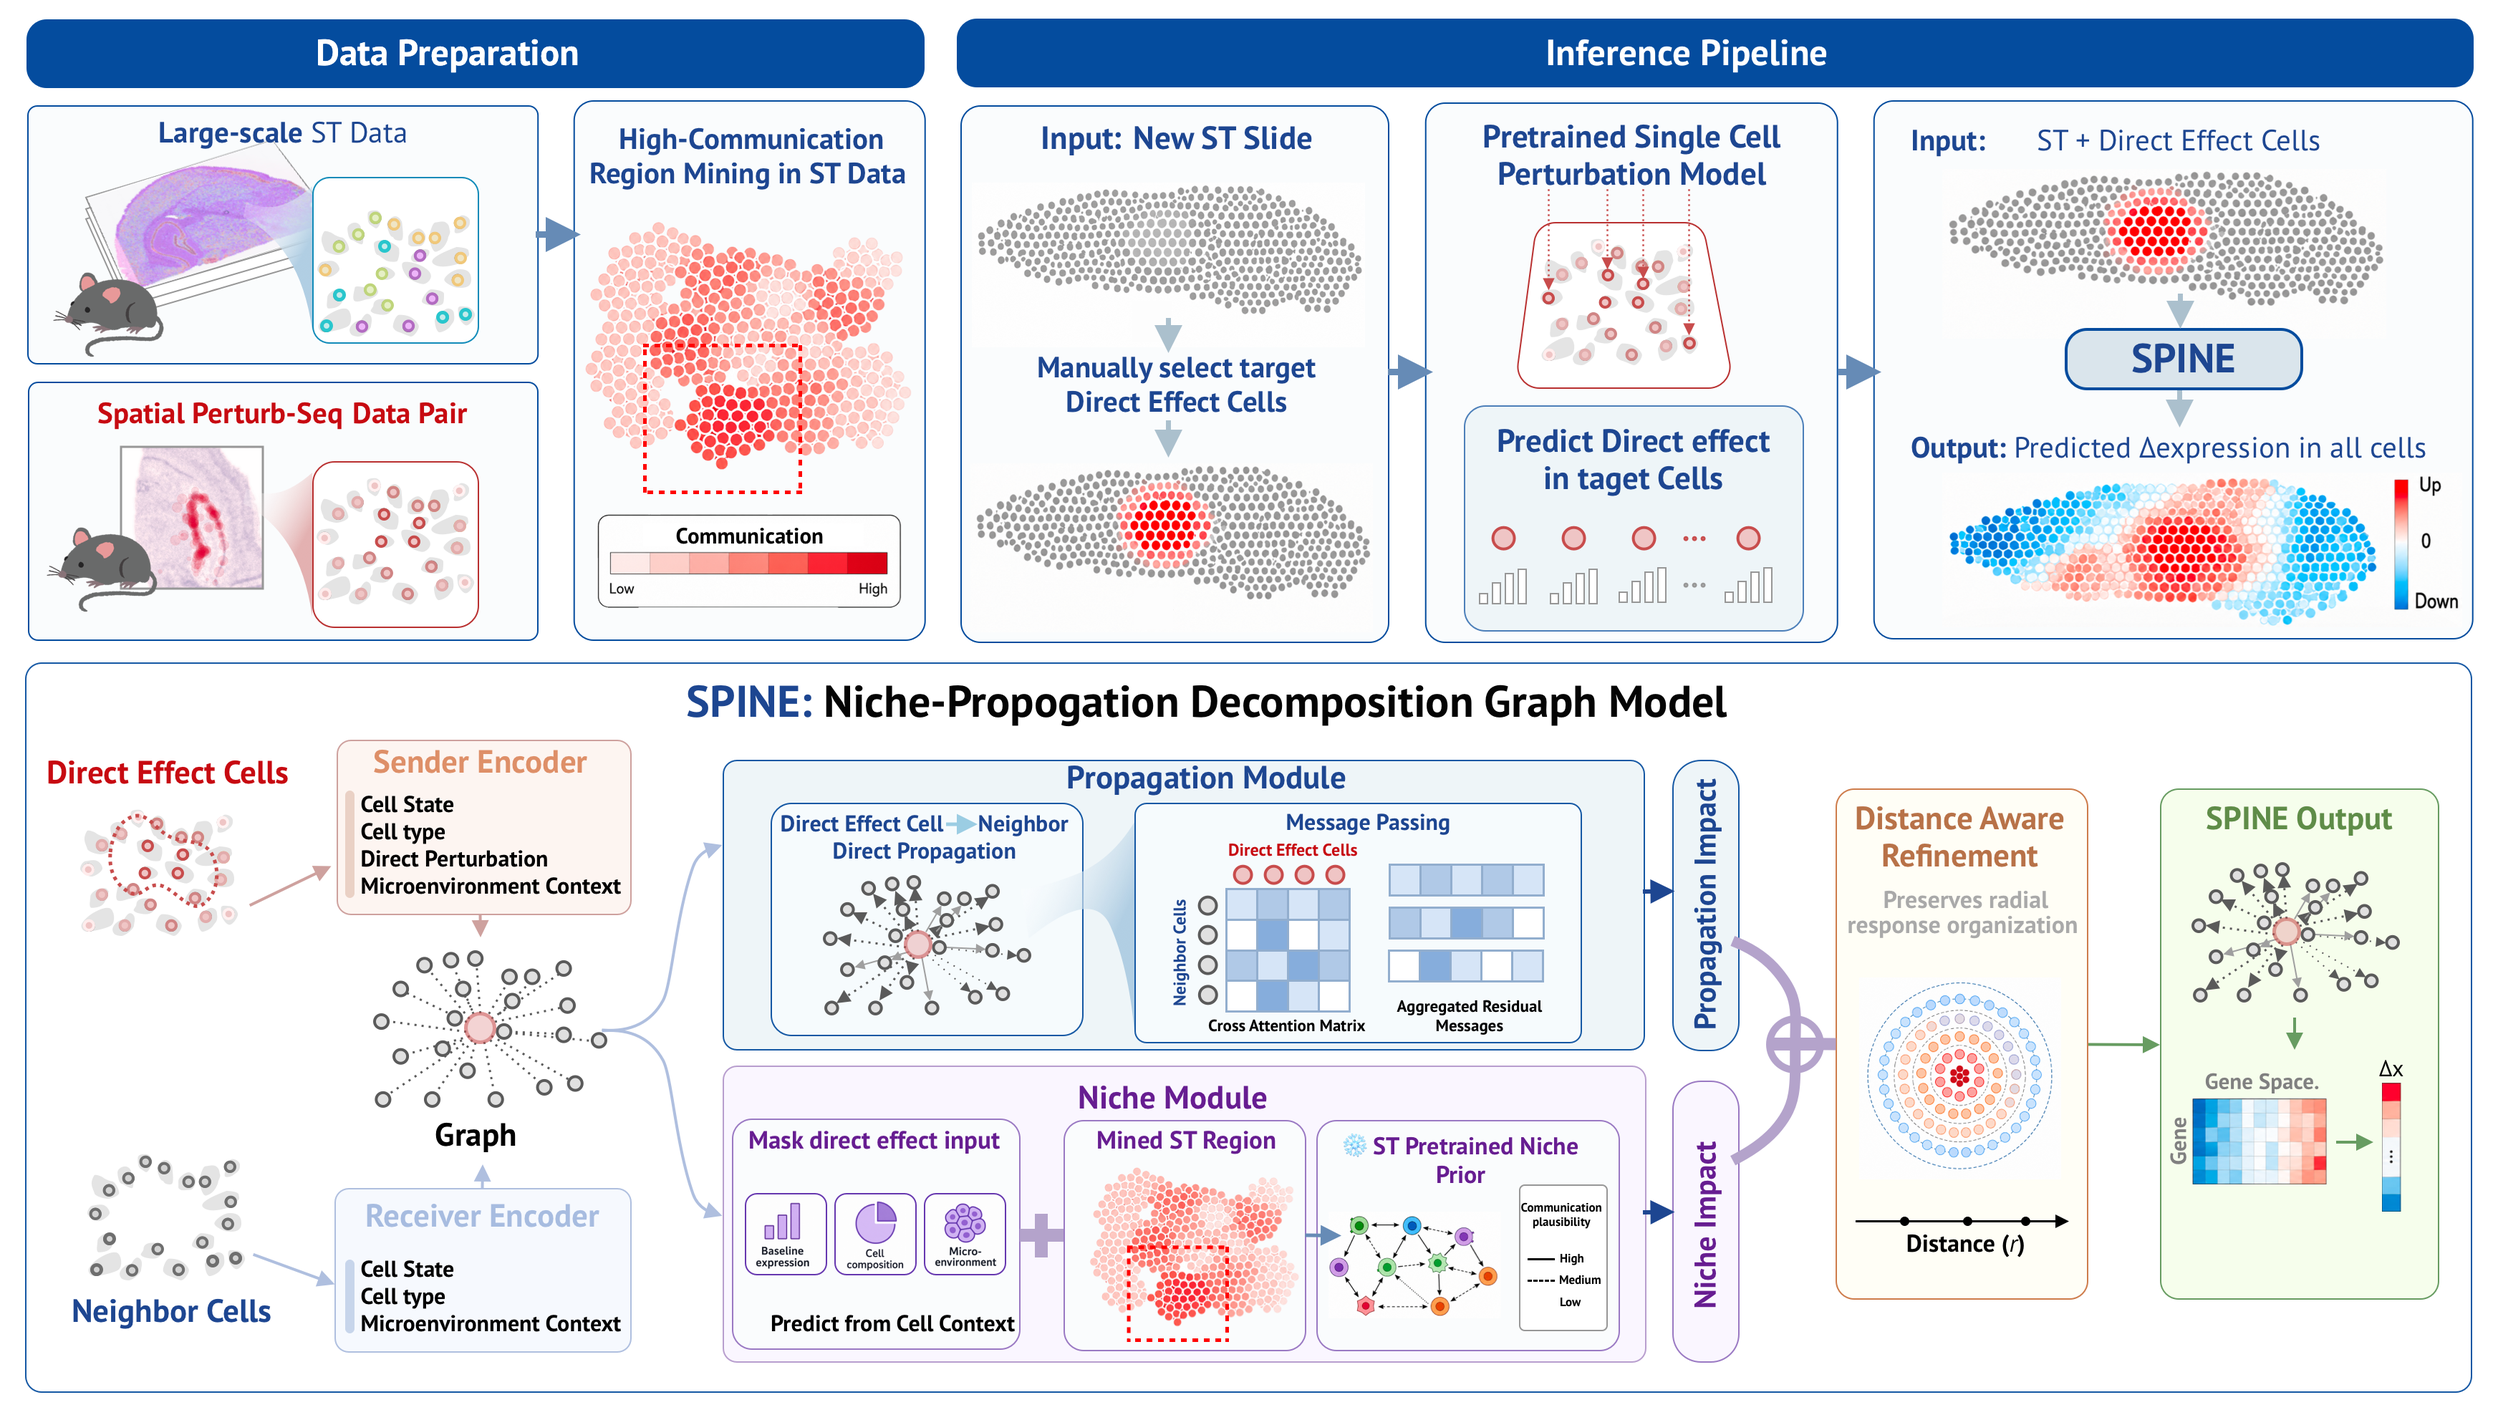
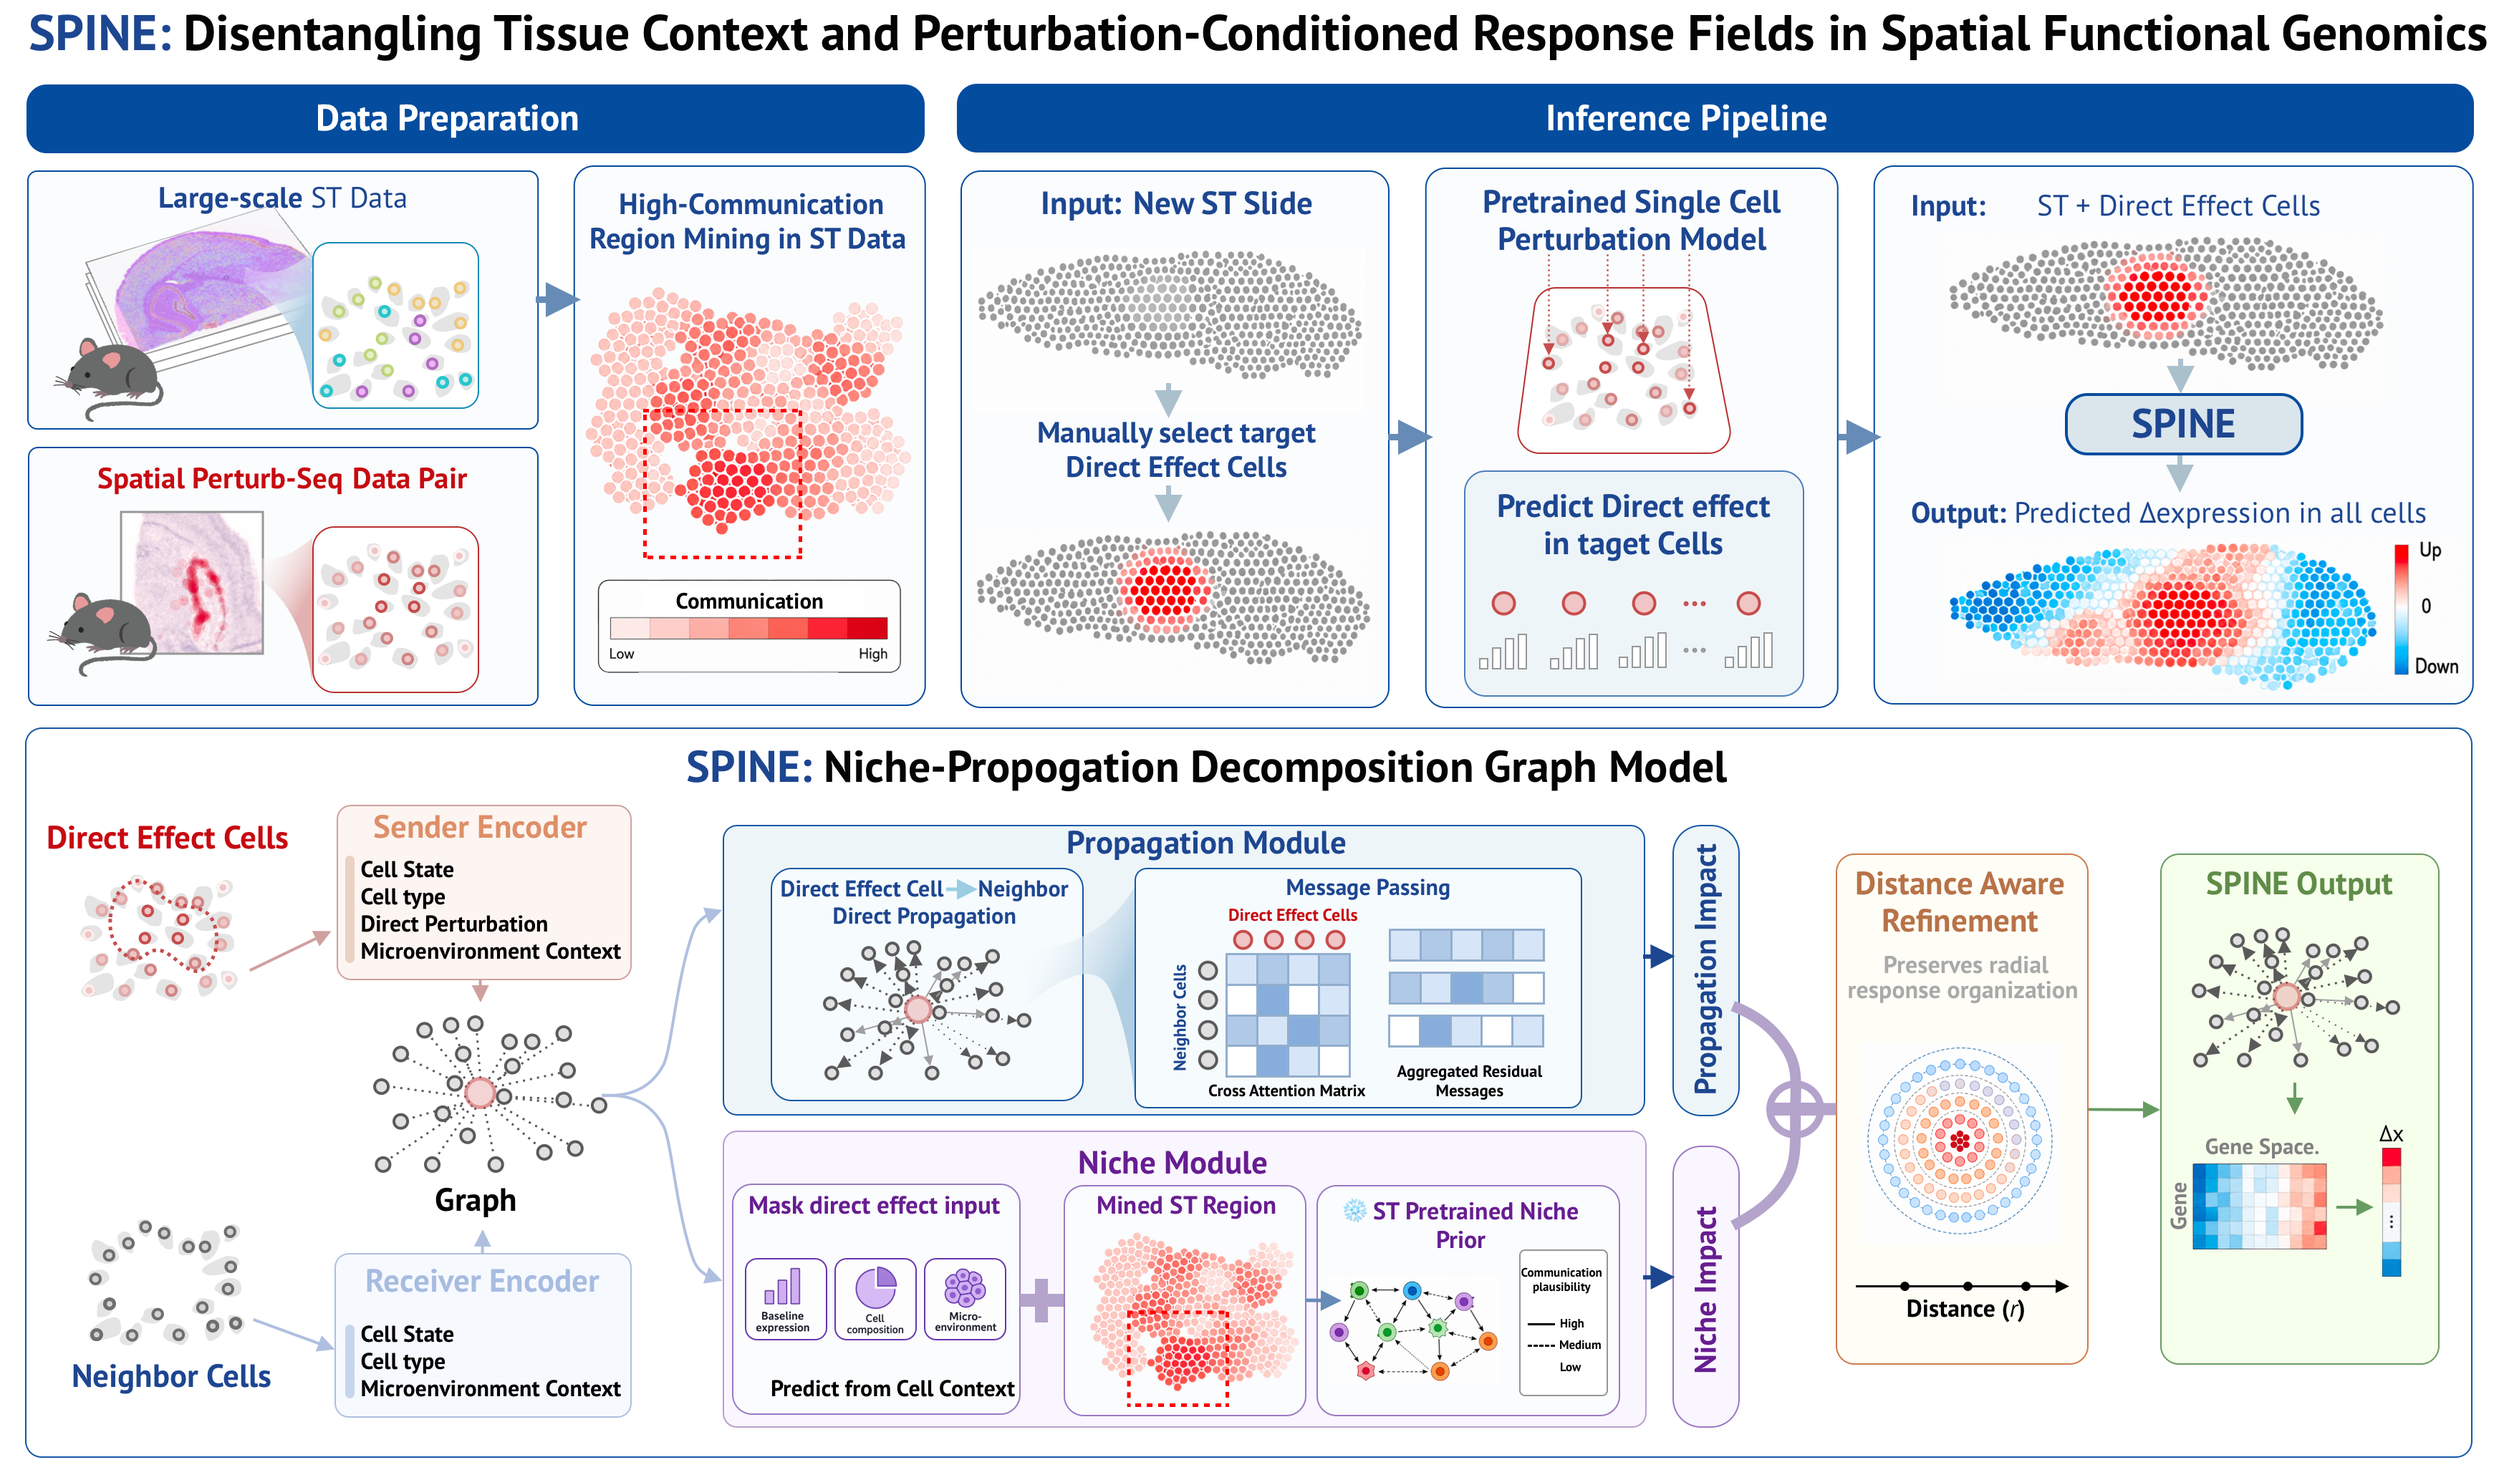
Updates from Overleaf

Changed region(s): [[0.0, 0.0, 1.0, 0.9879], [0.75, 0.8644, 0.8125, 0.8952]]

diff --git a/main2.tex b/main2.tex
@@ -59,7 +59,7 @@
 \newcommand{\softpara}{\vspace{0.25em}}
 \newcommand{\pmv}[2]{\ensuremath{#1\,{\scriptstyle\pm\,#2}}}
 
-\title{\methodname{}: Single-Cell Spatial Perturbation-Field Inference in Niche Environments}
+\title{\methodname{}: Disentangling Tissue Context and Perturbation-Conditioned Response Fields in Spatial Genomics}
 
 
 
@@ -207,7 +207,7 @@ context-dominated but locally perturbation-structured}.
 
 \begin{figure*}[t]
 \centering
-\includegraphics[width=0.9\linewidth]{pair_2.png}
+\includegraphics[width=0.85\linewidth]{pair_2.png}
 \caption{\textbf{Pre-Post Perturbation Pairing (PPP) construction and validation.}
 (a) Each post-perturbation 64-cell patch is matched to K=3 control patches, softly aligned, and aggregated into a consensus post--pre response target. (b) Example matched pre/post patches. (c--e) Stability and null audits show that PPP targets are consistent across matched controls and align more strongly with their own guide signatures than with wrong-guide or shuffled nulls. Consensus/ring correlations are $0.944/0.923$, and 512-gene own-guide alignment exceeds wrong-guide and target-shuffled nulls for both center cells and neighbor cells. Expression-decoupled, gene-disjoint, channel-removal, and no-spatial audits are reported in \Cref{tab:confirmatory_analysis}.}
 \label{fig:data_pair}
@@ -936,17 +936,6 @@ toxicity. Validation fixes all thresholds, weights, and operating points.
 
 
 
-\begin{figure}[t]
-\centering
-\includegraphics[width=\linewidth]{novo.png}
-\caption{
-\textbf{De novo IFN-$\gamma$ response-field prediction in mouse brain.}
-Left: whole-tissue maps for representative IFN/MHC-I-associated and structural genes, showing positive \textit{B2m}/\textit{Ifitm3} and negative \textit{Col1a2}/\textit{Vcan} responses rather than a uniform shift.
-Middle: six high-response regions with patch-averaged deltas overlaid on the spatial graph.
-Right: local 64-cell neighborhoods, where highlighted target cells show the strongest response and nearby neighbors show structured propagation.}
-\label{fig:ifng_response_field}
-\end{figure}
-
 
 
 
@@ -962,6 +951,21 @@ from 0.1111 to 0.4167. Random observed-qualified selection and Path2
 aggregation instead yield mean reductions of $-9.8\%$ and $-16.4\%$, whereas
 the dual utility/burden selector reaches $+12.9\%$
 (\Cref{tab:app_selector_formal}).
+
+\begin{figure}[t]
+\centering
+\includegraphics[width=\linewidth]{novo.png}
+\caption{
+\textbf{De novo IFN-$\gamma$ response-field prediction in mouse brain.}
+Left: whole-tissue maps for representative IFN/MHC-I-associated and structural genes, showing positive \textit{B2m}/\textit{Ifitm3} and negative \textit{Col1a2}/\textit{Vcan} responses rather than a uniform shift.
+Middle: six high-response regions with patch-averaged deltas overlaid on the spatial graph.
+Right: local 64-cell neighborhoods, where highlighted target cells show the strongest response and nearby neighbors show structured propagation.}
+\label{fig:ifng_response_field}
+\end{figure}
+
+
+
+
 
 \textbf{Task-specific \methodname{} burden ranking, rather than generic
 aggregation, drives the improvement.} The context spillover head reaches
